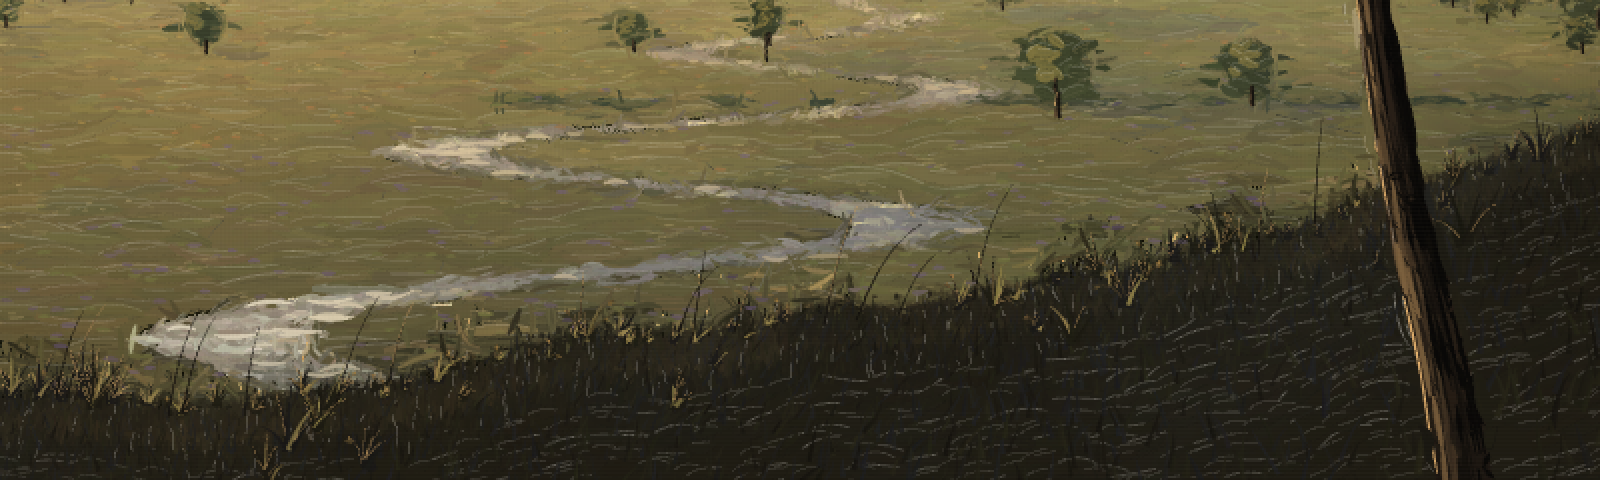
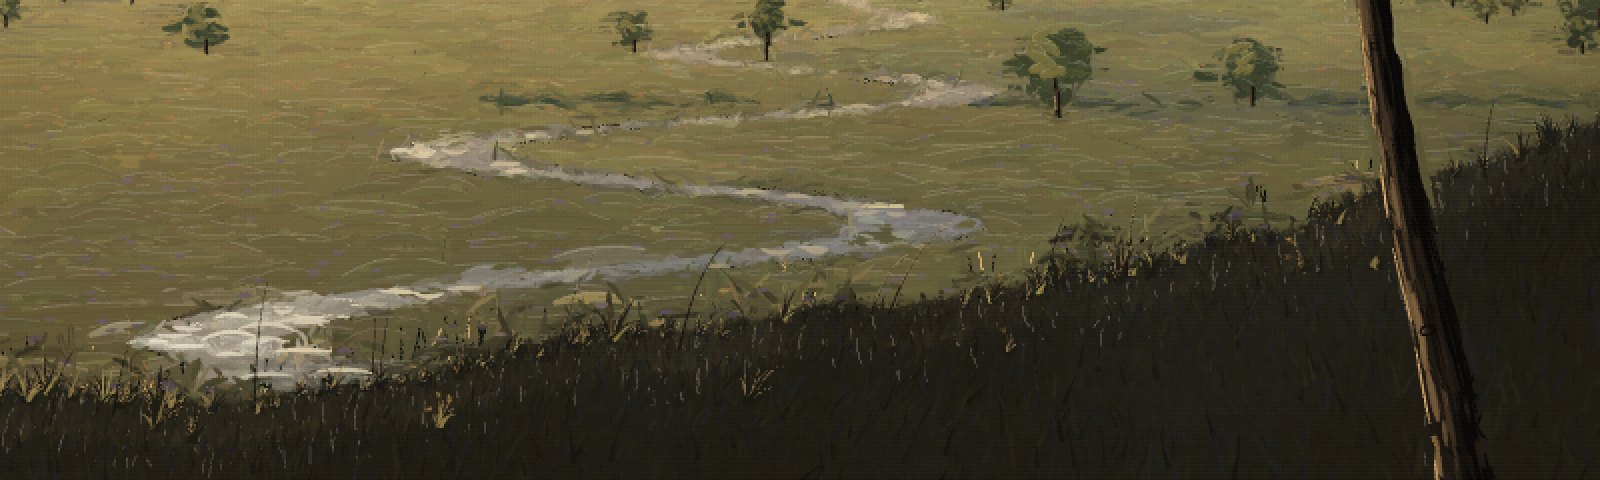
036-aerial-recession: no grey streaks on the lower bank
The bank's oil strokes ran along the slope with a ridge highlight (relief
0.25), so on the dark bank each stroke left a pale near-white line; the
bristles also dragged paler underpainting from the stroke's far end.

- bank strokes are short and upright, leaning slightly with the slope,
  like the turf over them
- bank relief 0.25 -> 0.03: matte, below the specular threshold
- bank bristles carry the stroke's own colour

Claude-Session: https://claude.ai/code/session_014i1Png3Yc4yMk8wK1WReT7

diff --git a/projects/036-aerial-recession/sketch.js b/projects/036-aerial-recession/sketch.js
@@ -2481,7 +2481,10 @@ function buildOilField(s) {
     if (y > by - 3) {
       if (y < by + 45) return { a: -Math.PI / 2 + (noise(x * 0.02) - 0.5) * 0.9, k: 0.45, kind: 'grass' };
       const slope = (bankAt(rp, x + 12) - bankAt(rp, x - 12)) / 24;
-      return { a: Math.atan(slope) + (noise(x * 0.01, y * 0.01) - 0.5) * 0.3, k: 0.9, kind: 'bank' };
+      // the bank in shadow is grown ground: short upward strokes leaning with the grass,
+      // not long strokes along the slope (whose ridge highlights read as grey streaks)
+      const lean = Math.atan(slope) * 0.4;
+      return { a: -Math.PI / 2 + lean + (noise(x * 0.03, y * 0.03, 5) - 0.5) * 0.9, k: 0.6, kind: 'bank' };
     }
     // the ground plane: long sweeping level strokes, receding
     if (y > yGround) {
@@ -2544,7 +2547,7 @@ function oilRelief(f) {
     case 'ground': return 0.14;
     case 'water': return 0.1;
     case 'grass': return 0.55;
-    case 'bank': return 0.25;
+    case 'bank': return 0.03; // matte: a shadowed bank catches no room light on its ridges
     case 'limb': case 'leaf': return 0.5;
     default: return 0.1;
   }
@@ -2573,7 +2576,7 @@ function oilLayer(s, O, out, scale, cover, edges) {
         a = Math.atan2(gyv, gxv) + Math.PI / 2; // along the edge
       }
       const w = w0 * f.k;
-      const ratio = f.kind === 'ground' ? OP.l * OP.sweep : f.kind === 'leaf' ? OP.l * 0.5 : f.kind === 'range' ? OP.l * 0.75 : f.kind === 'water' ? OP.l * 1.3 : OP.l;
+      const ratio = f.kind === 'ground' ? OP.l * OP.sweep : f.kind === 'leaf' || f.kind === 'bank' ? OP.l * 0.5 : f.kind === 'range' ? OP.l * 0.75 : f.kind === 'water' ? OP.l * 1.3 : OP.l;
       const len = w * ratio;
       const p = (cover * g * g) / (w * len);
       const n = Math.floor(p) + (random() < p - Math.floor(p) ? 1 : 0);
@@ -2585,6 +2588,9 @@ function oilLayer(s, O, out, scale, cover, edges) {
           relief: oilRelief(f),
           angular: f.kind === 'range',
           soft: f.kind === 'far',
+          // on the dark bank the bristles carry the stroke's own colour, so no pale
+          // underpainting from further along is dragged across it
+          color2: f.kind === 'bank' ? shadeRGB(O.under(sx, sy), random(0.85, 1.05)) : undefined,
         }));
       }
     }

diff --git a/projects/036-aerial-recession/index.html b/projects/036-aerial-recession/index.html
@@ -22,6 +22,6 @@
 </head>
 <body>
   <a class="back" href="../../">← gallery</a>
-  <script src="sketch.js?v=4"></script>
+  <script src="sketch.js?v=5"></script>
 </body>
 </html>

diff --git a/projects/036-aerial-recession/README.md b/projects/036-aerial-recession/README.md
@@ -75,7 +75,7 @@ each stroke; every other decision is read from the scene's geometry.
 | **Impasto hierarchy** | each stroke carries a relief value, drawn as a ridge of paint under a fixed *room* light from the upper left: a shadow strip on the far side, a specular edge on the near side. The sun's core is the thickest paint (relief 1.0), its halo steps down ring by ring (0.85 → 0.22), the foreground tree is high (0.5–0.6), the rest low (0.1–0.25), the far ranges flat |
 | **Lost edges** | far ranges are painted in soft, level strokes and get no edge pass; a wet-on-wet blend band of strokes straddling each far crest, loaded with the sky above and the mountain below, melts them into the haze |
 | **Found edges** | the framing tree is redrawn last as a hard near-black silhouette with a thin warm rim on the sun side |
-| **Grass** (`oilGrass`) | built the way a painter builds it, not as a row of stalks. *Turf*: thousands of short upright flicks over the bank, densest at the lip, each a few percent off the local value and temperature (cool, olive, neutral dark), larger lower down where the bank is nearer. *Tufts*: placed at irregular steps along the lip, with bare stretches where noise says nothing grows, and rooted at different depths so they overlap rather than stand on one line. Each tuft is a dark base mass, then 4–13 blades fanned from one root, tapered from root to point, arcing progressively with a shared wind field, of log-normal length. *Contre-jour*: blades are dark silhouettes against the lit field; a few toward the sun are lit through (yellow-green), and some sunward edges carry a thin warm rim. *Seed heads* on about a third of tufts only, as small grains along a nodding tip, kept close to the stem's value. Panel: *grass density (oil)*. |
+| **Grass** (`oilGrass`) | built the way a painter builds it, not as a row of stalks. *Turf*: thousands of short upright flicks over the bank, densest at the lip, each a few percent off the local value and temperature (cool, olive, neutral dark), larger lower down where the bank is nearer. *Tufts*: placed at irregular steps along the lip, with bare stretches where noise says nothing grows, and rooted at different depths so they overlap rather than stand on one line. Each tuft is a dark base mass, then 4–13 blades fanned from one root, tapered from root to point, arcing progressively with a shared wind field, of log-normal length. *Contre-jour*: blades are dark silhouettes against the lit field; a few toward the sun are lit through (yellow-green), and some sunward edges carry a thin warm rim. *Seed heads* on about a third of tufts only, as small grains along a nodding tip, kept close to the stem's value. Below the lip the bank's own oil strokes are short and upright like the turf, matte (no ridge highlight, which on a dark ground reads as grey streaks), and their bristles carry the stroke's own colour. Panel: *grass density (oil)*. |
 | **Broken colour** | 2,600 sparse micro-strokes of violet (in shadows), olive (mid-tones), ochre and dull orange (lights), each only half-mixed with the paint beneath, laid unblended into the field and mountains |
 | **Scumbling** | dry-brush passes — bristles only, lighter opaque paint, broken often — dragged over the plain (more toward the distance) and through the sun's halo, leaving the darker layer showing |
 | **Value: glow vs gloom** | the sun's core goes to near-white; the halo is five discrete tonal rings stepping down to the sky, painted outside-in so each brighter ring sits on the one outside it; the silhouette is pushed 40 % toward black so the meadow reads luminous against it |
